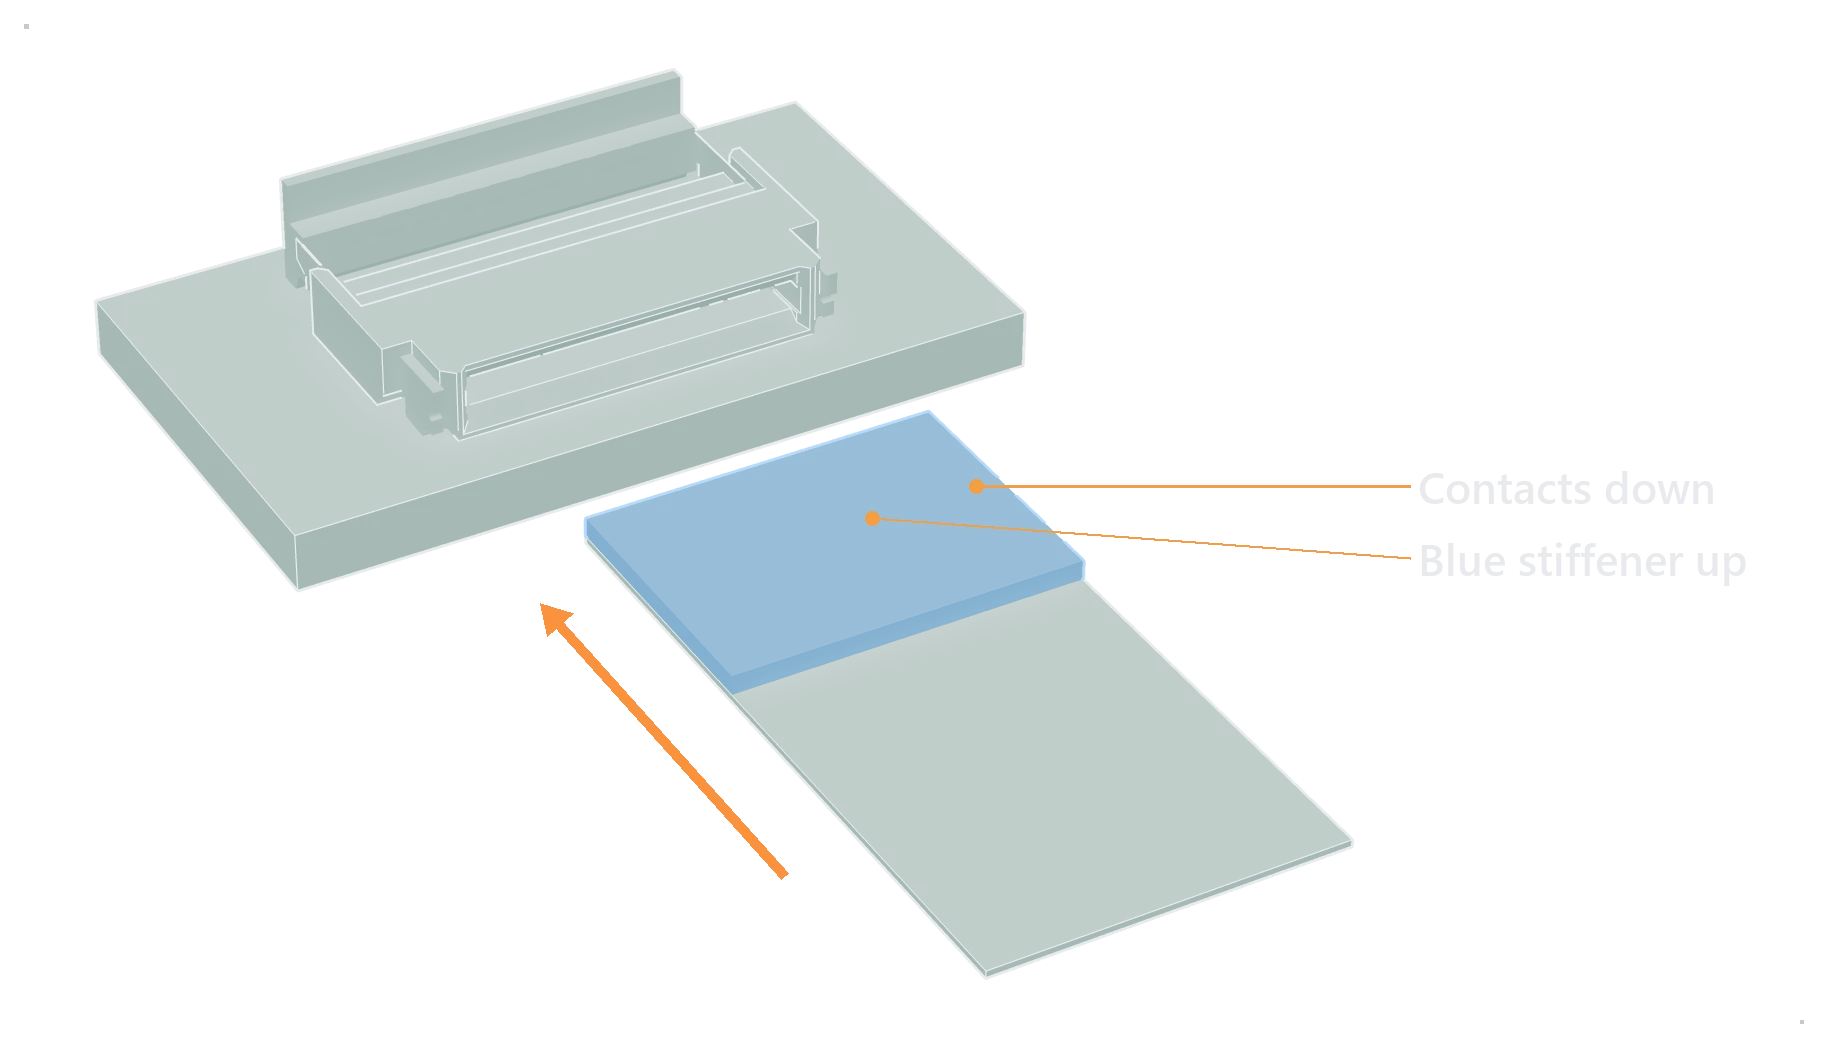
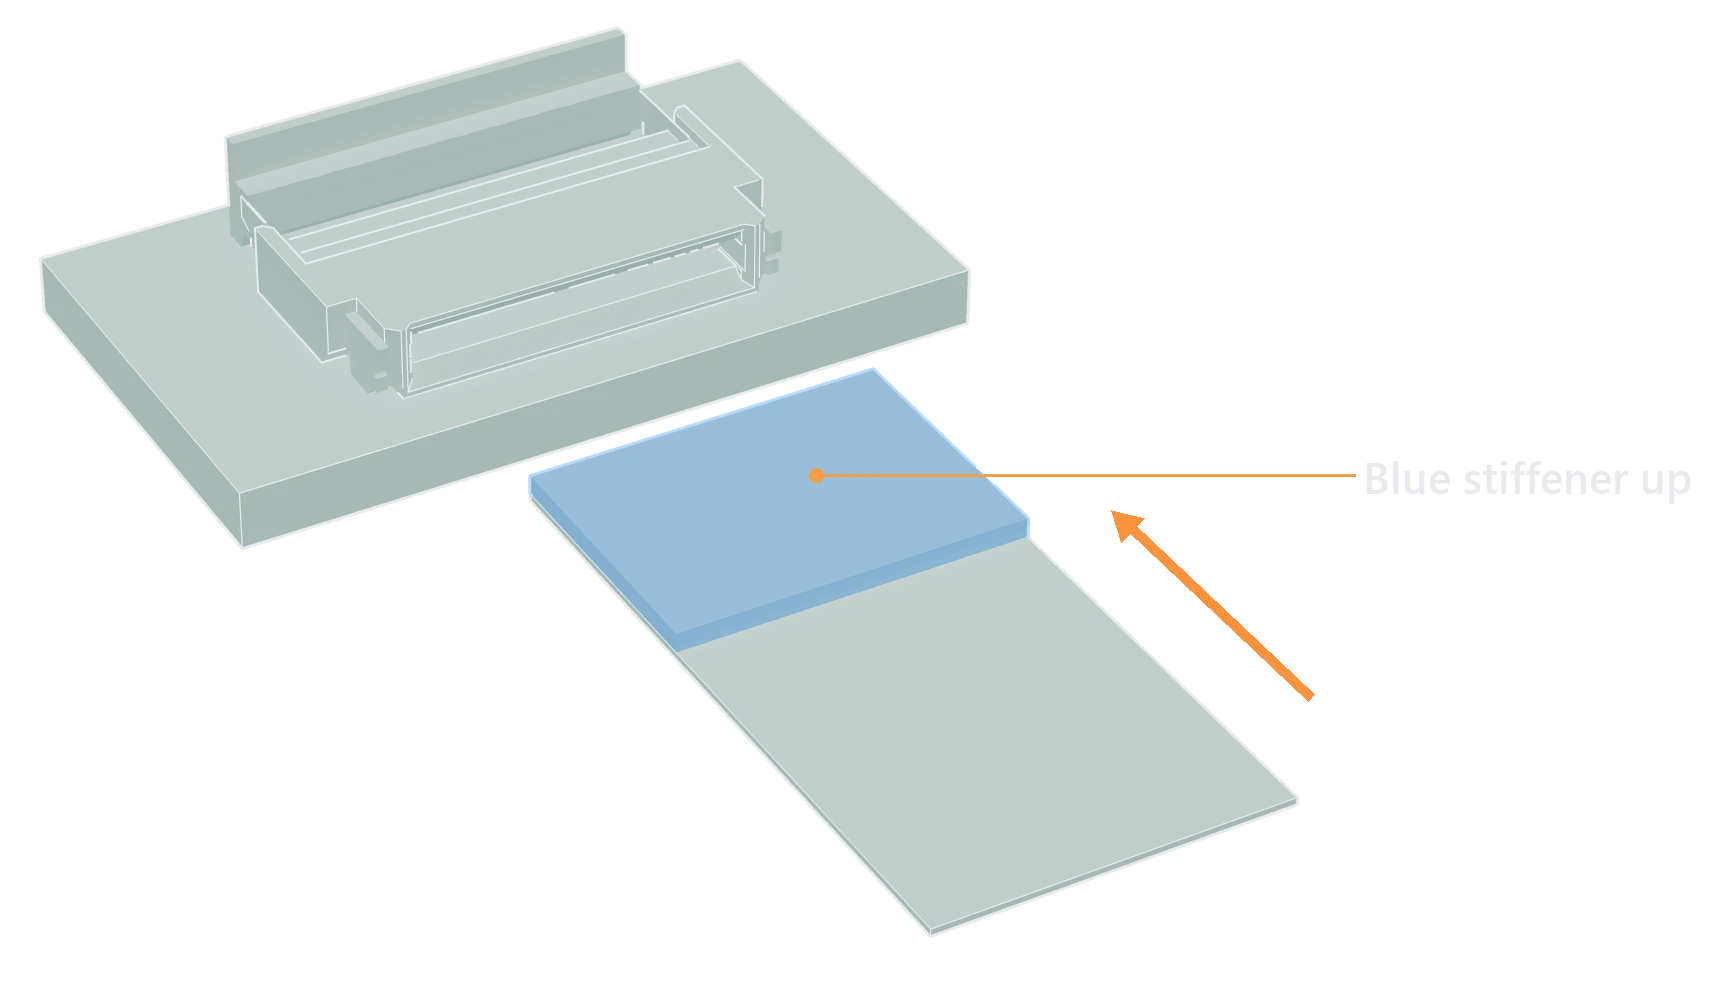
Docs: palm yaw on the rest, FFC step figures, Keybard mouse layer shots
- Step 18 and Hardware: the carrier slides in X and Y and stays square to
  the base plate; the Hemi palm rest turns for yaw. The slide figure loses
  its yaw arrow; the tilt figure gains one.
- Step 6: the three FFC figures are framed one by one at matching sizes;
  the leader that ended on the stiffener top for the hidden contacts is
  gone (the caption covers it). The intro no longer repeats the captions.
- Hardware, mouse layer: whole-window Keybard screenshots (QWERTY
  Example, light and dark) and a close-up of transparent and blank keys,
  through a new ThemeShot component.
- Other hand measurements: drop the 55 mm ball sentence.

Claude-Session: https://claude.ai/code/session_012ePhiApV6LQcH1sdfSp2aR

diff --git a/src/styles/custom.css b/src/styles/custom.css
@@ -52,3 +52,24 @@
 :root:not(:has(.cad-fig)) .cad-style-select {
 	display: none;
 }
+
+/* Screenshots with a light and a dark version (src/components/ThemeShot.astro). */
+.theme-shot {
+	margin: 1.5rem 0;
+}
+.theme-shot img {
+	display: none;
+	max-width: 100%;
+	height: auto;
+	border: 1px solid var(--sl-color-gray-5);
+	border-radius: 0.5rem;
+}
+:root[data-theme='light'] .theme-shot .shot-light,
+:root:not([data-theme='light']) .theme-shot .shot-dark {
+	display: block;
+}
+.theme-shot figcaption {
+	margin-top: 0.5rem;
+	font-size: var(--sl-text-sm);
+	color: var(--sl-color-gray-2);
+}
